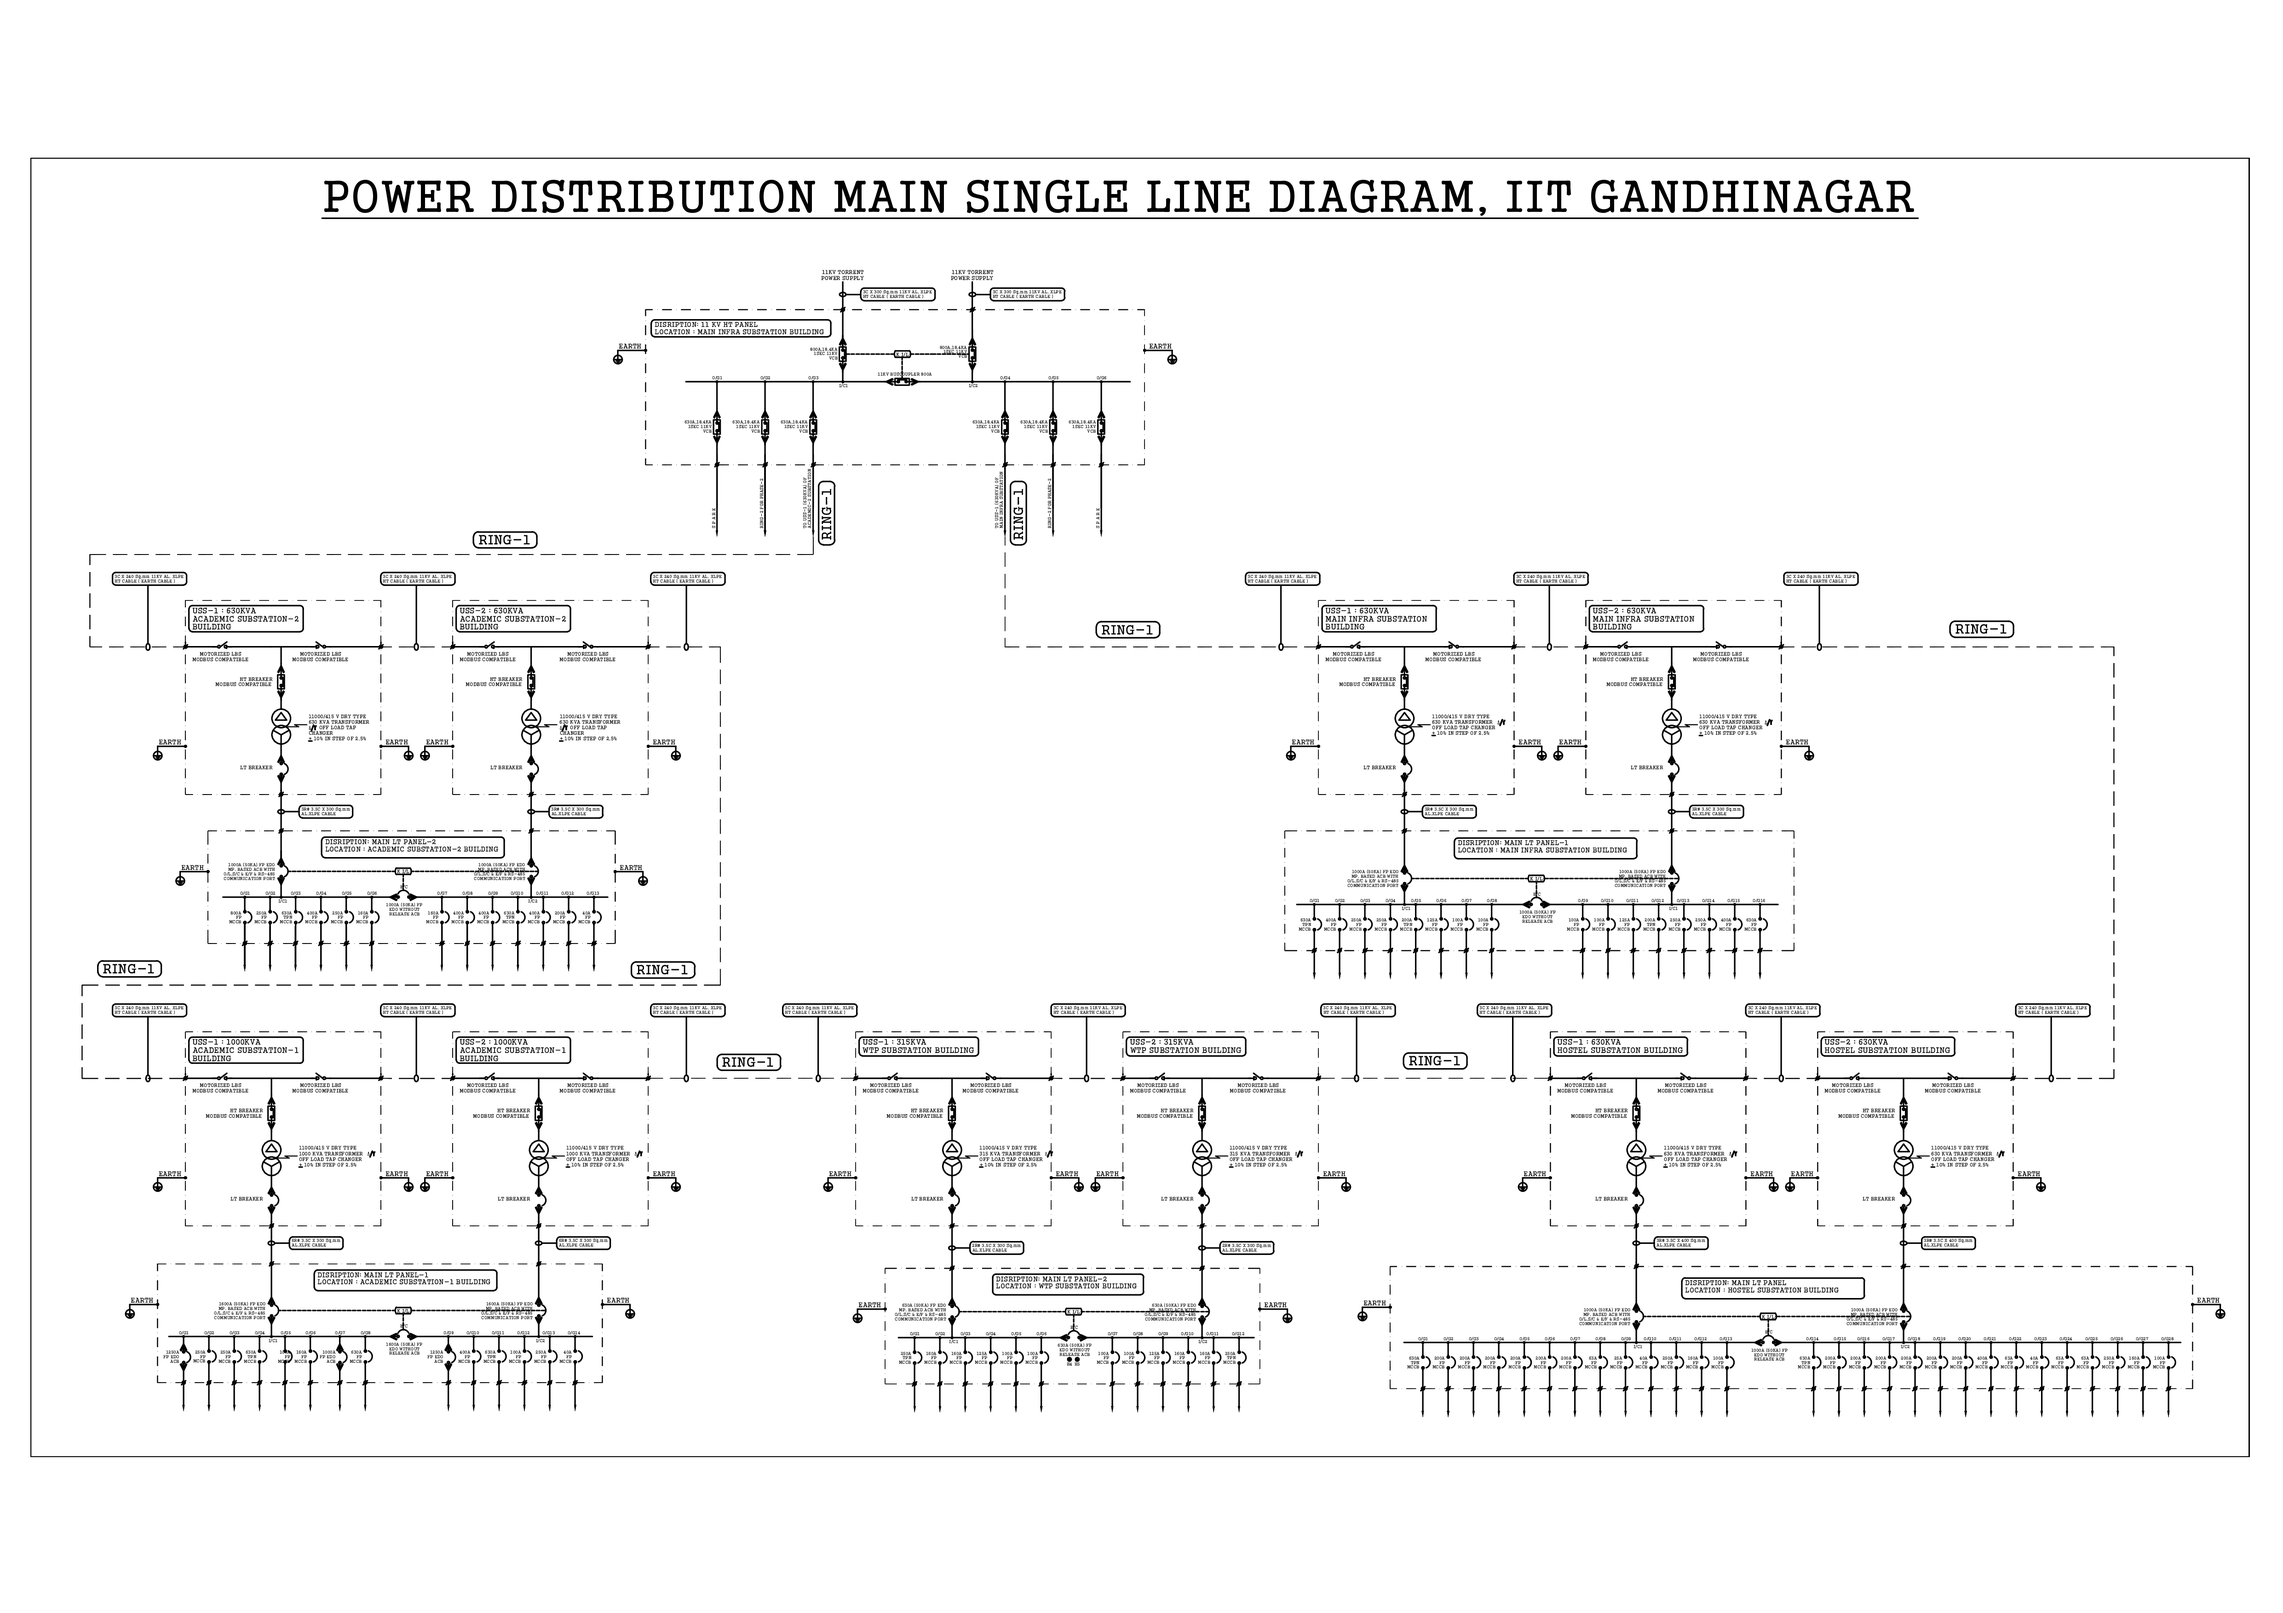
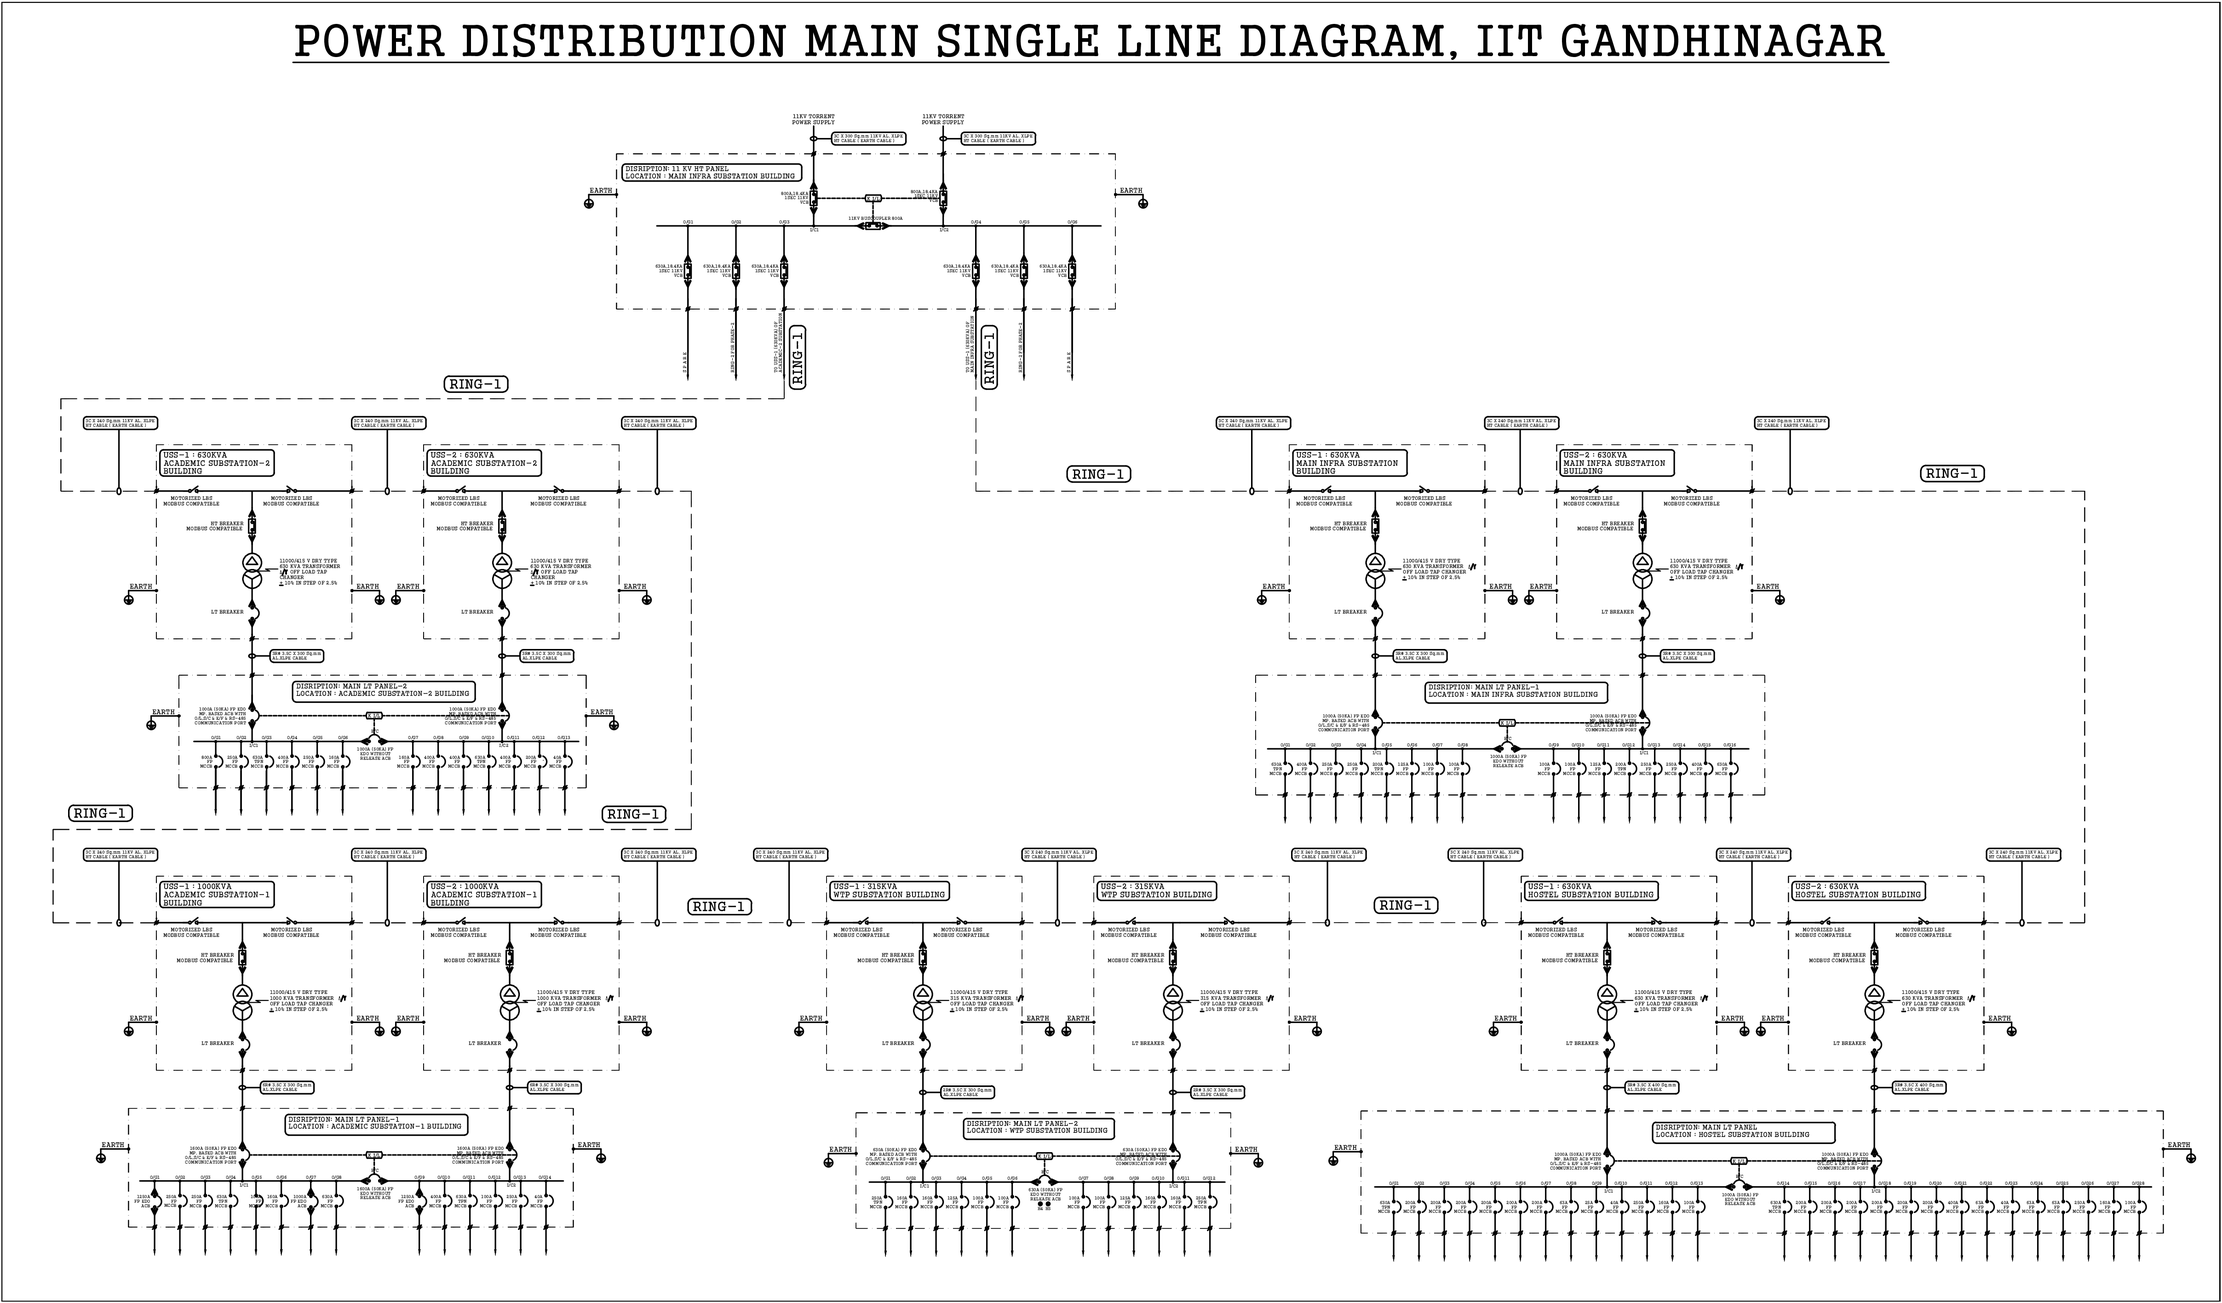
No scrolling to view Diagram
adjusted the width such as there is no need for scrolling.

diff --git a/css/style.css b/css/style.css
@@ -1,3 +1,27 @@
 @charset "utf-8";
 /* CSS Document */
 
+#hero {
+	text-align: center;
+	align-content: center;
+	margin: 0;
+	padding: 0;
+	width: 100%;
+}
+#hero figure {
+	margin: 0;
+	padding: 0;
+}
+#hero figure img {
+	padding: 0;
+	margin: 0;
+	width: 80%;
+}
+
+
+#wrapper {
+	margin: 0;
+	padding: 0;
+	width: 100%;
+	height: 100%;
+}

diff --git a/html/index.html b/html/index.html
@@ -7,9 +7,10 @@
 </head>
 <div id = "wrapper">
 <body>
-
-	
-
+<div id = "hero">
+  <figure><img src="../images/IIT-Master SLD.png" alt="IIT_master.png"/>
+  </figure>
+</div>
 </body>
 </div>
 </html>
